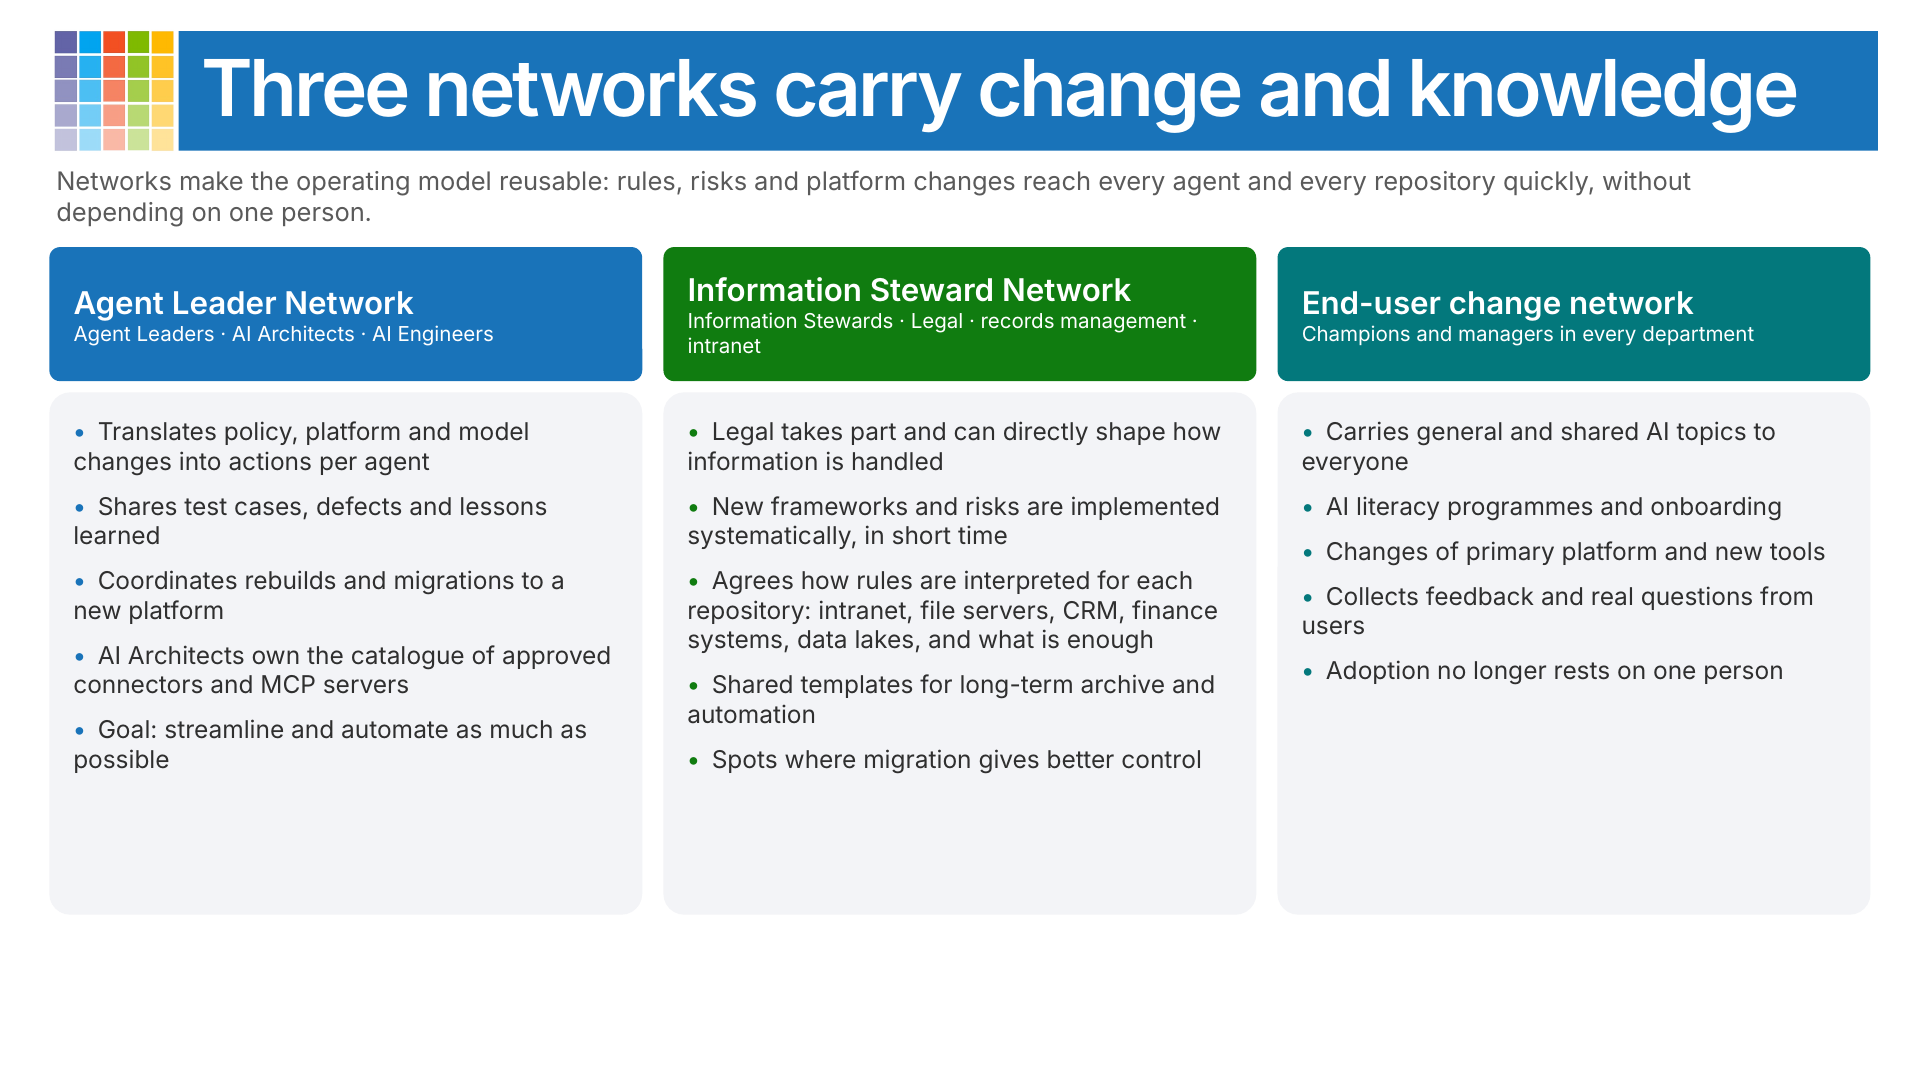
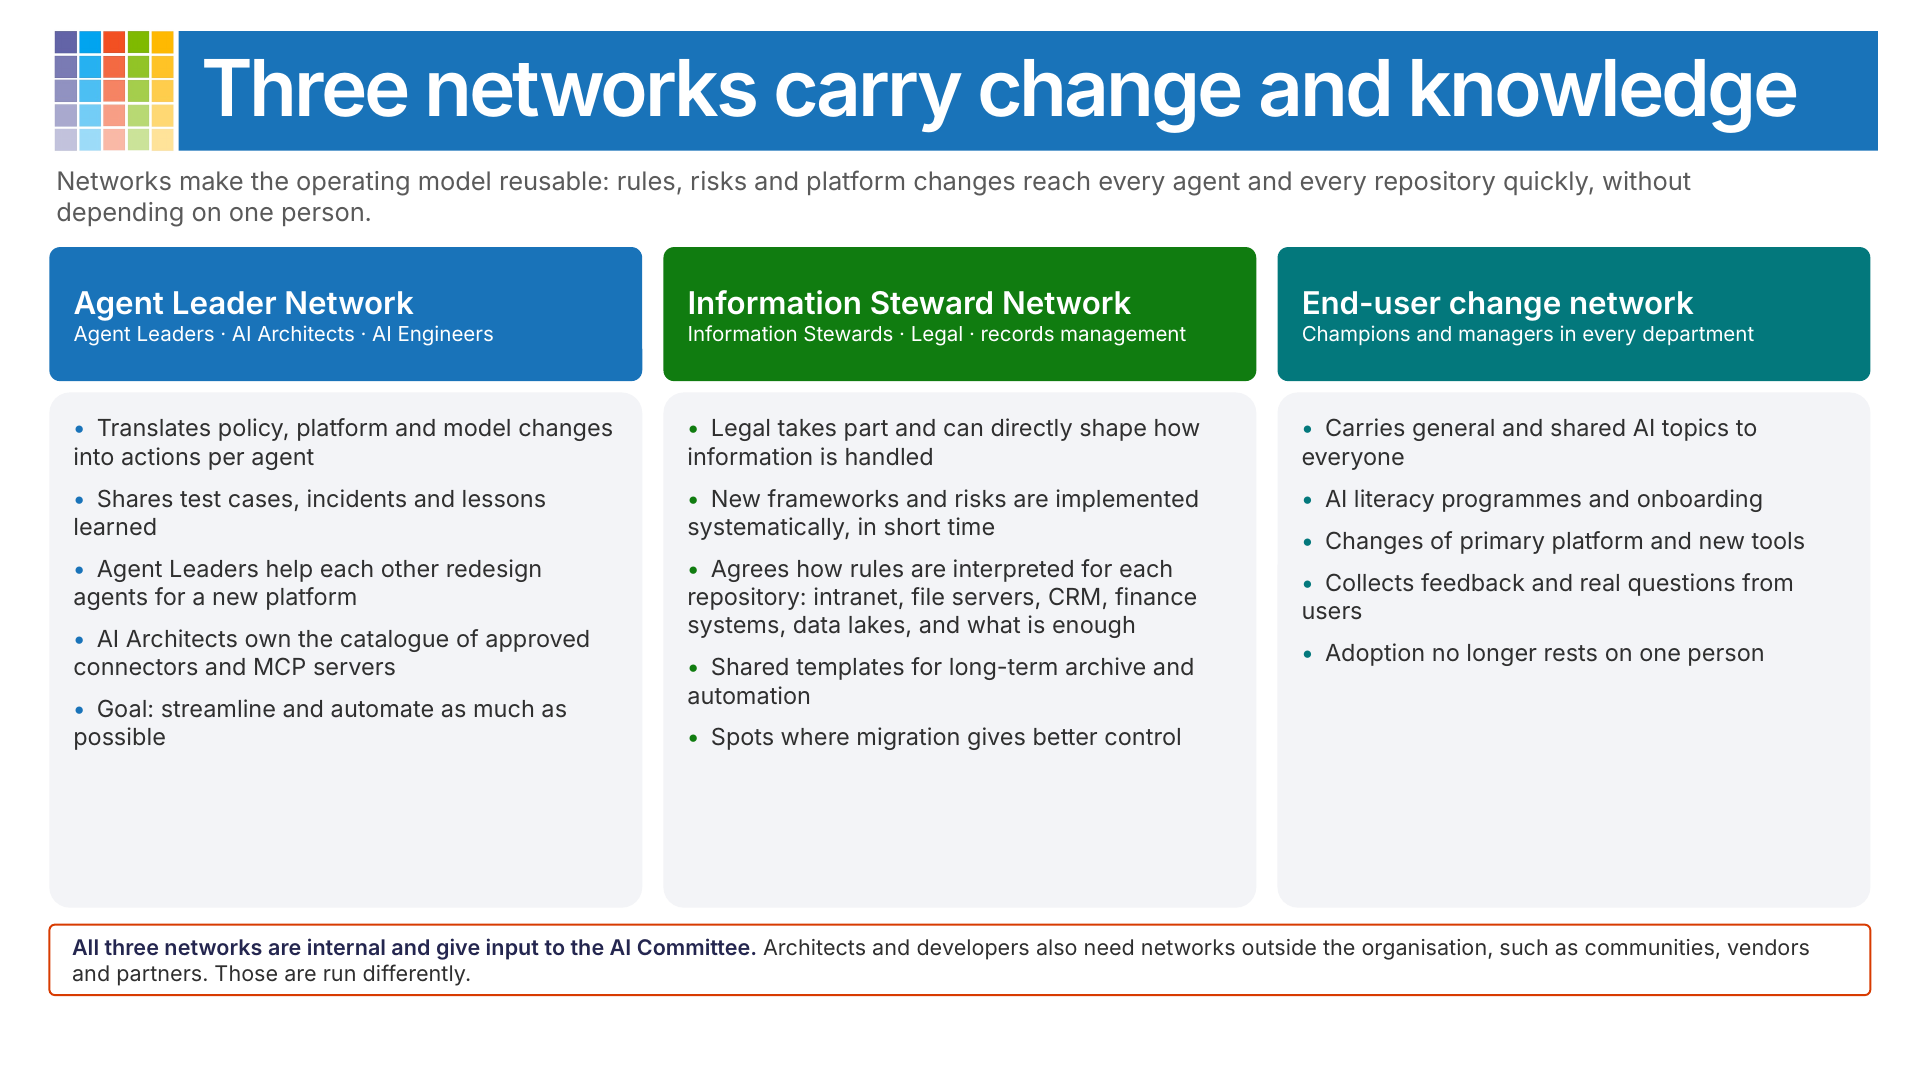
Rework AI Operations scenario after review
Add agent register and agent types (permanent, temp, consultant,
rented service), the value chain, and an exact information matrix
in the AI policy example, including AI Act labelling. Replace the
capability analogy, separate platforms from capability kinds, mark
the three networks as internal, fix the agent status graphic,
remove the waves section, and shorten levels 100 and 500.

diff --git a/docs/practical-scenarios/maturity-model-microsoft365-ps-ai-operations.md b/docs/practical-scenarios/maturity-model-microsoft365-ps-ai-operations.md
@@ -72,6 +72,7 @@ No agent enters or stays in operation without
 |---|---|---|
 | Governance | **AI Committee** | AI strategy, AI policy and platform strategy, risk posture, choice of models and suppliers, exceptions, warnings and intervention across all agents. Holds the overall view of usage, surveys, follow-up and cost for all agents and platforms, against common KPIs, with input from the networks. Think of it as strategic HR for agents: it sets the frame and supports everyone who builds them. |
 | Governance | **AI Finance & Cost** | Total AI cost, allocation of shared platform cost to each agent and business area, forecasts and recommendations. |
+| Governance | **Agent register** | Owned by the AI Committee. Every agent, whether built, bought or rented: type, owner, Agent Leader, platform, sources, users, status, cost and end date. |
 | Business | **Agent Owner** | Purpose, value, budget, acceptance of residual business risk, and the decision to continue, scale or retire the agent. Usually an addition to a business-development role, not a new job. Makes sure the agent has an Agent Leader and an Information Steward. |
 | Business | **Agent Leader** | Runs the agent day to day: instructions, playbooks, representative business tests, KPIs, adoption, training, defects and the improvement backlog. Usually a fraction of a role. Complex agents also need an IT person. |
 | Information | **Information Owner** | Owns and approves the information in a domain, and makes sure there is capacity to keep it current. |
@@ -97,6 +98,21 @@ When several agents use the same information, for example a shared archive or a 
 
 **End-user change network.** Champions and managers in every department. Carries general and shared AI topics to everyone: AI literacy programmes, onboarding, and changes such as a new primary platform. Collects feedback and real questions from users, so adoption no longer rests on one person.
 
+All three networks are internal and give input to the AI Committee. Architects and developers also need networks outside the organisation, such as communities, vendors and partners. Those are run differently and are not part of this operating model.
+
+## Agent types: like forms of employment
+
+![Four agent types: permanent employee, temp, consultant and rented service, all recorded in the agent register owned by the AI Committee.](./images/maturity-model-microsoft365-ps-ai-operations/agent-types.png)
+
+The type of an agent decides how it is admitted, owned and ended. All four need an owner and all four are in the agent register.
+
+| Type | What it is | How it is governed |
+|---|---|---|
+| Permanent employee | Built and owned by us, on an approved platform | Long-lived, full admission gates, named Agent Owner and Agent Leader. Usually a heartbeat agent. |
+| Temp | Time-limited: a pilot, a campaign, covering a gap | End date set at admission; retired automatically unless re-admitted. Lighter gates, same data rules. |
+| Consultant | Built or configured for us by an external partner | We own the purpose, the sources and the data. The contract says who maintains it, and knowledge transfer is a requirement. |
+| Rented service | An agent inside a bought or rented product | We do not control the model. Governed through supplier oversight, data boundaries and an exit plan. Usually a utility agent. |
+
 ## Example of a platform strategy
 
 The platform strategy is one of the artefacts the AI Committee owns. The AI policy points to it.
@@ -119,15 +135,17 @@ The platform strategy is one of the artefacts the AI Committee owns. The AI poli
 
 | | Utility | Heartbeat | Frontier |
 |---|---|---|---|
-| Think of it as | The concert hall | The house orchestra | Guest soloists |
+| Think of it as | Electricity and water | Your own recipes | The food-safety lab |
 | What it is | Standard AI in everyday tools, used by everyone | Agents for the processes and knowledge that make the business unique | Cutting-edge capability with high control |
-| How to run it | Like email: stable, standard, few customisations | The business owns it and keeps tuning it | Experts who work at the edge with others, every day |
+| How to run it | Like email: stable, standard, few customisations | The business owns it and keeps tuning it | Experts who do only this, for many organisations |
 | People | Can be outsourced | Mostly in-house: this knowledge is the advantage | Hired experts, or a dedicated expert team if the department is big enough |
-| Source | Buy or rent | Build, on the primary platform | Rent, unless there is reason to keep it in-house |
+| Source | Buy or rent | Build | Rent, unless there is reason to keep it in-house |
 
 You cannot hire one expert and expect them to stay at the frontier on their own. A security operations centre (SOC) is a typical frontier capability: if you do not have enough reason to run it in-house, it is better placed with a provider that does only this, for many customers.
 
 ### Platforms in this example
+
+Platforms are chosen per agent, not per kind of capability.
 
 - **Primary platform: Microsoft 365 Copilot and Copilot Studio**, for agents closely tied to internal processes and knowledge in the intranet, archives, mail, Planner and similar.
 - **Secondary platform: a best-of-breed platform**, for outward-facing work such as legal, where external frameworks and events matter more than internal information.
@@ -139,19 +157,50 @@ There should always be room to evaluate alternatives. When the strategy changes,
 
 ![Example of an AI policy: nine areas from personal use to incidents and exceptions.](./images/maturity-model-microsoft365-ps-ai-operations/ai-policy.png)
 
-The AI policy says what is allowed and why. It points to the platform strategy for where. An example policy covers:
+The AI policy says what is allowed and why. It points to the platform strategy for where, and to an information matrix for what. An example policy covers:
 
 | Area | Example content |
 |---|---|
-| Personal use and consumer AI | Work information is only used in approved platforms. Private accounts, free chatbots, browser extensions and AI note-takers are not used for work. |
+| Personal use and consumer AI | Private accounts and consumer AI products are only used with public information. Work happens in the approved platforms. |
 | Approved platforms | Primary, secondary and local platforms as set in the platform strategy. New tools are proposed to the AI Committee. |
-| Information that must never be uploaded | Personal data outside approved agents, special category data, customer case data, confidential business information, credentials and security details. |
-| Topics not to discuss | Outside the primary platform: unpublished financial results, negotiations and M&A, ongoing security incidents, individual HR cases. |
-| Uses that are not allowed | Decisions about individuals without human review. Advice to customers without qualified review. Content that misleads or impersonates. Uses prohibited by law, such as the [EU AI Act](https://artificialintelligenceact.eu/). |
-| Human responsibility | The person who uses the output owns it: check the sources, correct errors, and label AI-generated content where required. |
+| Where information may go | Follows the information matrix below. Credentials and secrets never go into any AI tool. |
+| Uses that are not allowed | Decisions about individuals without human review. Advice to customers without qualified review. Content that misleads or impersonates. Practices prohibited by the EU AI Act. |
+| Label AI-generated content | The [EU AI Act, Article 50](https://artificialintelligenceact.eu/article/50/), requires that people are told when they interact with an AI system, that AI-generated content is marked as such, and that deepfakes and AI-generated text published to inform the public are disclosed. The policy says how the organisation labels AI-generated content. |
+| Human responsibility | The person who uses the output owns it: check the sources and correct errors before it is used or shared. |
 | AI literacy | Training is required before access, and refreshed when platforms or rules change. |
-| Building agents | Only in approved environments, with a named Agent Owner, through the admission gates. |
+| Building agents | Only in approved environments, with a named Agent Owner, through the admission gates, and recorded in the agent register. |
 | Incidents and exceptions | Wrong or harmful answers and data leaks are reported. Exceptions are decided by the AI Committee and time-boxed. |
+
+### Where information may go
+
+![Information matrix: which information class may be used on the primary platform, the secondary platform, a local model and consumer AI.](./images/maturity-model-microsoft365-ps-ai-operations/information-matrix.png)
+
+The approved internal platforms are where the real work happens, so the policy has to be exact about what may be used where.
+
+| Information class | Primary platform | Secondary platform | Local model | Consumer and private AI |
+|---|---|---|---|---|
+| **Public**: published, or meant to be | Yes | Yes | Yes | Yes |
+| **Internal**: processes, intranet, mail, meetings, plans | Yes | Yes | Yes | No |
+| **Confidential**: customer and personal data, contracts, unpublished financials, HR matters | Yes, within the agent's approved scope and the user's permissions | Only if the platform is approved for that domain, with a data processing agreement | Yes | No |
+| **Restricted**: special category personal data, inside information, ongoing security incidents | Only in agents approved for that purpose | No | Only if approved for that purpose | No |
+| **Credentials**: passwords, keys, tokens, secrets | Never | Never | Never | Never |
+
+## From capability to value
+
+![Value chain from capability through behaviour and KPI to value, with the evidence needed at each step.](./images/maturity-model-microsoft365-ps-ai-operations/value-chain.png)
+
+Every agent has a value chain, and the Agent Owner is accountable for it.
+
+| | Capability | Behaviour | KPI | Value |
+|---|---|---|---|---|
+| Example | Correct answers from approved sources | Less searching, fewer questions to colleagues and support | Hours saved per week, tickets per day, answer quality | Released time, support capacity, lower risk |
+| Evidence | Shown in the pilot | Measured in production | Baseline before release | Valued with Finance |
+
+Three rules keep the value honest:
+
+- **Book only what is measured.** Hypotheses stay hypotheses until production data confirms them.
+- **Mark the evidence level** on every figure: measured, indication or assumption.
+- **Report wider benefits separately.** Better order in information and higher AI literacy are real benefits, but they are not added to the money, so nothing is counted twice.
 
 ## Gates and agent status
 
@@ -205,21 +254,6 @@ Users describe cases and upload screenshots, so personal data passes through age
 - [Control transcript access and retention (Copilot Studio)](https://learn.microsoft.com/microsoft-copilot-studio/admin-transcript-controls)
 - [Learn about retention for Copilot & AI apps (Microsoft Purview)](https://learn.microsoft.com/purview/retention-policies-copilot)
 
-## Introducing agents in waves
-
-![Introducing agents in waves: three overlapping waves, each with six steps from nomination to go/no-go.](./images/maturity-model-microsoft365-ps-ai-operations/waves.png)
-
-Agents are introduced one department, or one agent, at a time. In every wave:
-
-1. A manager says yes and nominates up to 15 people.
-2. Introduction and training.
-3. Workshop: where do we save time or raise quality?
-4. Build or prepare one to three small, modular agents.
-5. Test, verify and capture lessons learned.
-6. Go or no-go for production.
-
-Not everyone needs to be involved at the same time, IT and managers can dedicate resources when they are needed, and the organisation gets clear planning and less stress. Each wave reuses the roles, gates and networks that earlier waves built.
-
 ## Scenarios the operating model solves
 
 ![Four scenarios: a supplier raises prices or withdraws a model, many agents share the same CRM workflows, an agent seems compromised, and who sees the whole picture.](./images/maturity-model-microsoft365-ps-ai-operations/scenarios-solved.png)
@@ -240,12 +274,7 @@ When the roles, the strategy and the networks exist, a hard event becomes a rout
 
 ### Level 100 - Initial
 
-There are no agents the organisation knows about. Individuals may use consumer AI tools for work, without a policy.
-
-#### 100 Next Steps
-
-- Write a first AI policy, starting with what may never be uploaded and which tools are approved.
-- Inventory the AI tools and agents already in use, including those in rented and bought products.
+The chaos we all experience: AI is used everywhere and owned by no one.
 
 ### Level 200 - Managed
 
@@ -279,7 +308,8 @@ The value is visible, which creates demand for more agents. The risks grow at th
 - Only approved, current sources with an owner, review date and lifecycle are connected to an agent, whatever the repository.
 - The business tests the agent with representative questions; IT tests it independently. Tests are rerun when sources, instructions, permissions or the platform change.
 - The Agent Leader Network, the Information Steward Network and the End-user change network are running.
-- Agents are introduced in waves.
+- Every agent has a type and is recorded in the agent register.
+- Every agent has a value chain, from capability to valued benefit.
 - Retention of agent data is decided per data type, and the cost of each agent is reported separately.
 
 #### 300 Impacts
@@ -309,11 +339,7 @@ The organisation can change platform, model or supplier in a controlled way, bec
 
 ### Level 500 - Optimizing
 
-#### 500 Characteristics
-
-- AI is used to monitor other agents, data quality and anomalies.
-- The platform strategy is re-evaluated continuously against new models, suppliers and local options, and migrations are routine.
-- Lessons from agent operations feed back into training, templates and the policy automatically.
+Too early to say what this level will look like.
 
 ## Related Documents
 
